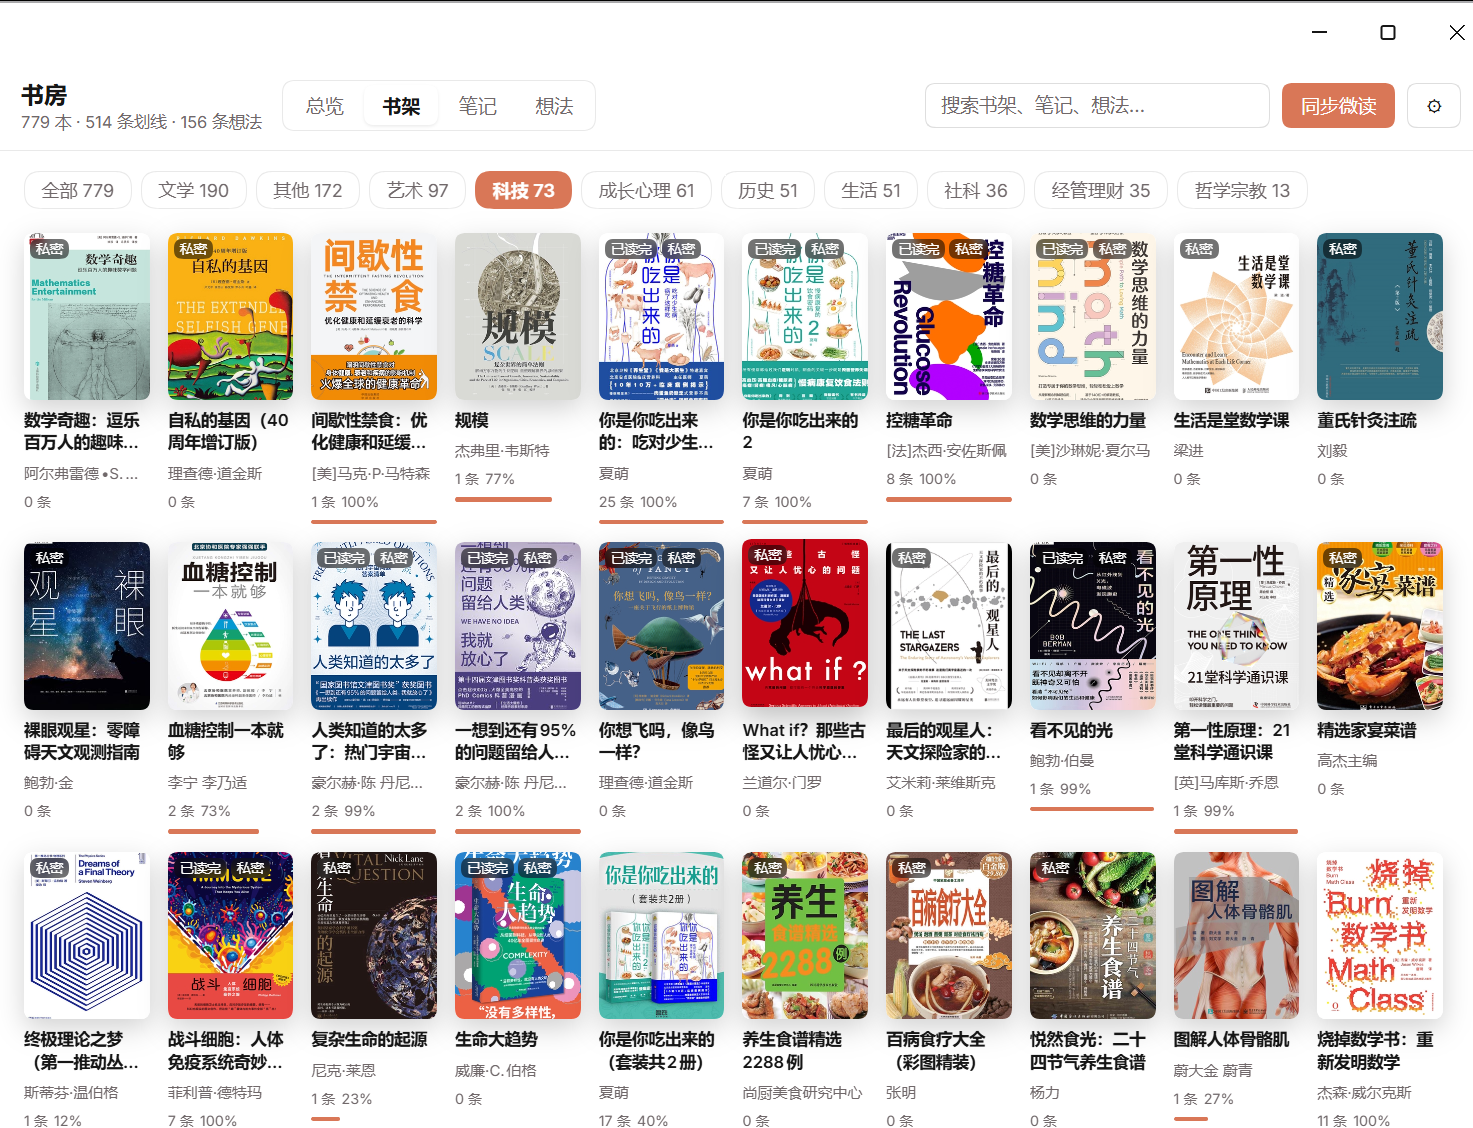
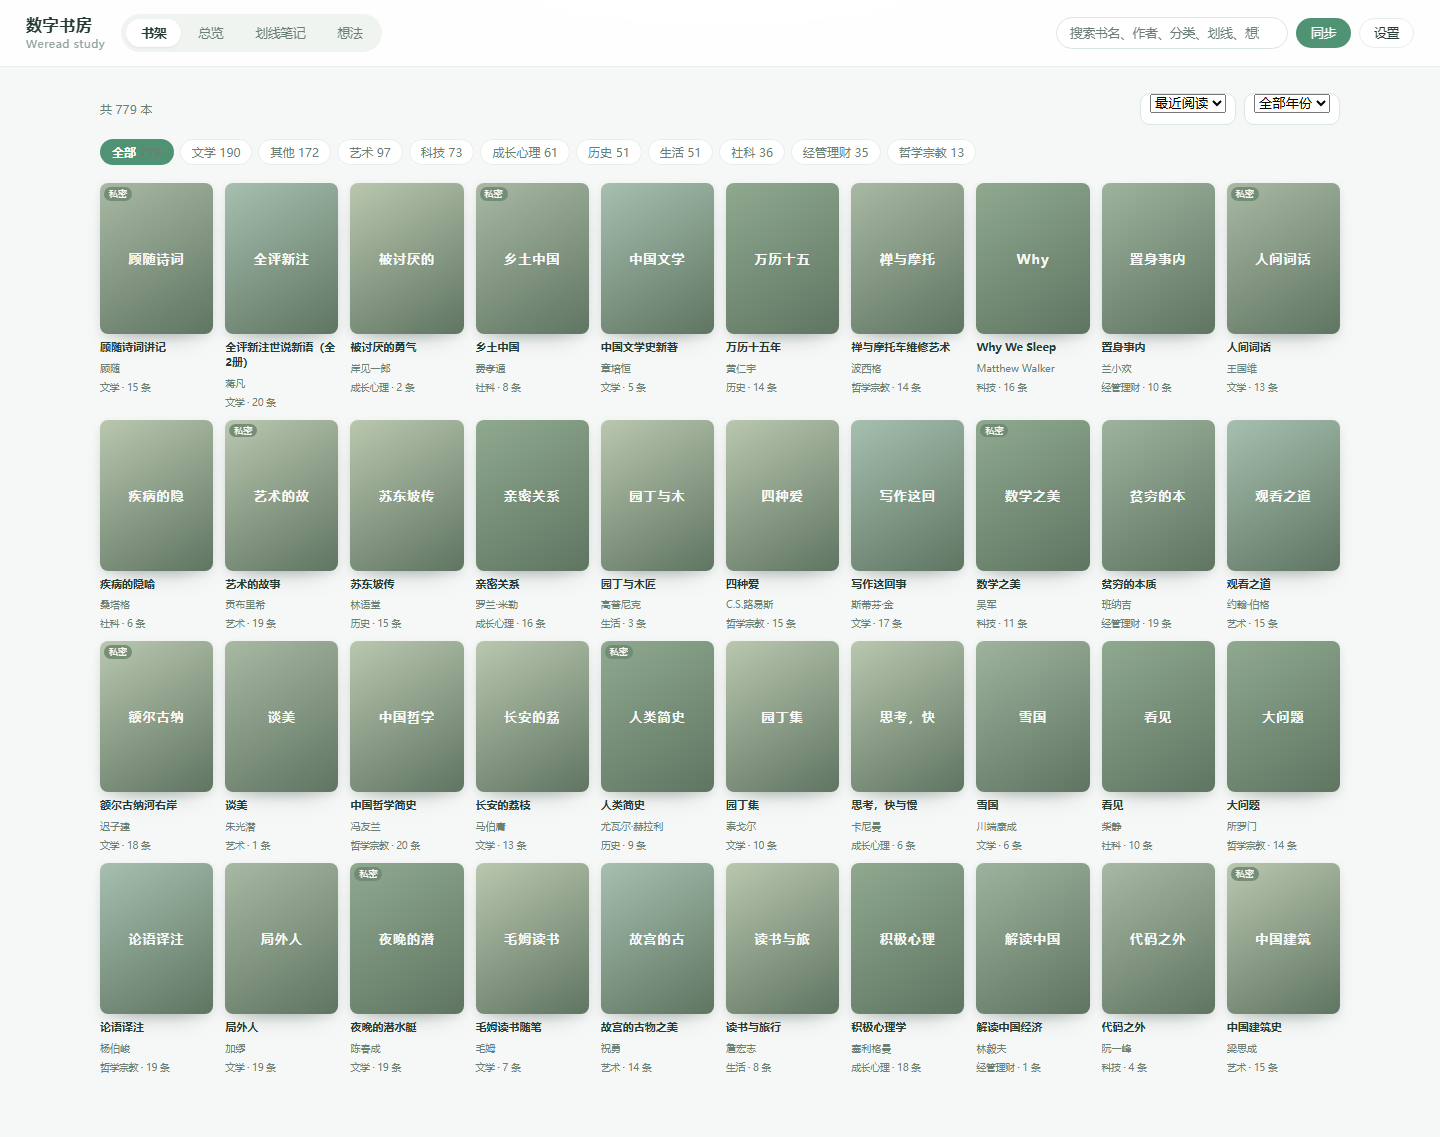
chore(1.1.2): 重拍市场截图（清爽绿配色）并更新 README

diff --git a/README.md b/README.md
@@ -16,6 +16,8 @@
 
 总览：置顶的年度阅读热力图，KPI、月度分布与表盘都跟着右上角的年份切。
 
+配色是浅绿纸感（页面 `#F6F8F7`、强调绿 `#4F9274`、热力图五档 `#EDF2EF → #438765`），通过重映射 `--dsw-alias-*` 跟随宿主的亮/暗主题。
+
 ![总览](assets/screenshot-2-overview.png)
 
 ## 安装
@@ -51,8 +53,9 @@ dsh plugin --profile <profile> add link:D:/path/to/dsh-weread-gather
 | 笔记 | 全部划线按时间倒流，**每页 24 条翻页**、按书筛选、关键词搜索、**单条复制**、**点卡片跳到该书详情** |
 | 想法 | 想法卡片墙（瀑布流式多列），**每页 20 条翻页**、按书筛选、关键词搜索、**单条复制**、**点卡片跳到该书详情（自动切到想法页）**、星级与章节 |
 | 书籍详情 | 封面、作者、大类 + 细分分类/读完/评分/出版社/出版年徽章、简介、该书全部划线 + 想法（每页 24 条翻页、可复制）、一键在微读打开、**「导出这本书」直接生成整本 Markdown** |
-| 全局搜索 | 顶栏搜索同时搜书名、作者、分类、划线正文、想法正文；结果按**书籍 / 划线 / 想法**分类切换，命中的关键词在卡片里高亮；`⌘K` / `Ctrl+K` 随时聚焦搜索框 |
+| 全局搜索 | 顶栏搜索同时搜书名、作者、分类、划线正文、想法正文；结果按**书籍 / 划线 / 想法**分类切换，命中的关键词在卡片里高亮 |
 | 导出 Markdown | 划线/想法卡片左上角圆圈勾选（悬停出现）→「导出所选」；也可「导出全部结果」或只导出某一本。导出面板可关掉原文/想法/书籍信息/章节标题/星级/微读链接，**先预览前 30 行**，再选择复制、下载 `.md` 或直接保存到导出目录（默认 `$DSH_HOME/weread-gather/exports/`，同名自动加 `-2` 序号） |
+| 同步提示 | 同步进行中在页面顶部显示进度条，完成后停留 8 秒自动消失，也可以随时点右侧 `×` 关掉；数据没变化时同步只花 2~3 秒 |
 | 设置 | 展示 Key 来源（环境变量或手填）、书架上限、每本书同步笔记条数、单次补全书籍信息上限、**Markdown 导出目录**、**下载备份 / 导入备份（两步确认，导入前自动另存当前数据）**、清空数据 |
 
 每一项（书架/笔记/想法/搜索/书籍详情内的列表）都有自己的搜索框；顶栏搜索是跨模块的全局搜索。
